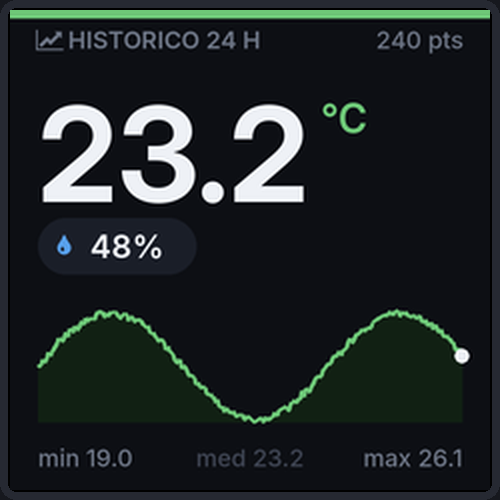
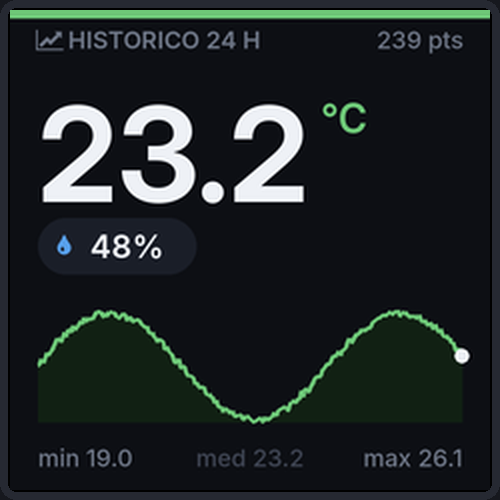
Documenta las cinco vistas y regenera las capturas
El README hablaba de tres vistas. Ahora lista las cinco con una tabla de
capturas en dos filas, explica el punto de rocio y el "s/d" de la tendencia,
y recoge los controles en una tabla con el pulsador del joystick.

`generar_capturas.py` dibuja las cinco y las monta en rejilla de tres por
fila, centrando la fila incompleta: en una sola fila salian ilegibles.

diff --git a/docs/generar_capturas.py b/docs/generar_capturas.py
@@ -24,6 +24,7 @@ import ui
 ESCALA = 2                      # el panel real es de 240x240
 MARGEN = 26
 SEPARACION = 34
+COLUMNAS = 3                    # con cinco vistas, una sola fila sale ilegible
 FONDO = (22, 24, 30)
 
 
@@ -80,24 +81,34 @@ def main() -> int:
         datos = app.Datos(datos_de_ejemplo(os.path.join(tmp, "muestra.db")))
         vistas = [
             ("ahora", app.vista_ahora(datos)),
+            ("humedad", app.vista_humedad(datos)),
+            ("tendencia", app.vista_tendencia(datos)),
             ("historico", app.vista_historico(datos, 24, "24 H")),
             ("sistema", app.vista_sistema(datos)),
         ]
 
     marcos = [con_marco(v) for _, v in vistas]
-    ancho = MARGEN * 2 + sum(m.width for m in marcos) + SEPARACION * (len(marcos) - 1)
-    alto = MARGEN * 2 + marcos[0].height
+    lado = marcos[0].width
+    filas = [marcos[i:i + COLUMNAS] for i in range(0, len(marcos), COLUMNAS)]
+    ancho = MARGEN * 2 + lado * COLUMNAS + SEPARACION * (COLUMNAS - 1)
+    alto = MARGEN * 2 + lado * len(filas) + SEPARACION * (len(filas) - 1)
     hoja = Image.new("RGB", (ancho, alto), FONDO)
-    x = MARGEN
-    for m in marcos:
-        hoja.paste(m, (x, MARGEN))
-        x += m.width + SEPARACION
+    y = MARGEN
+    for fila in filas:
+        # La ultima fila puede ir incompleta: centrarla en vez de dejar el
+        # hueco a la derecha.
+        usado = lado * len(fila) + SEPARACION * (len(fila) - 1)
+        x = (ancho - usado) // 2
+        for m in fila:
+            hoja.paste(m, (x, y))
+            x += lado + SEPARACION
+        y += lado + SEPARACION
     hoja.save(os.path.join(salida, "vistas.png"))
 
     for (nombre, _), marco in zip(vistas, marcos):
         marco.save(os.path.join(salida, f"vista-{nombre}.png"))
 
-    print(f"generadas en {salida}: vistas.png y tres capturas sueltas")
+    print(f"generadas en {salida}: vistas.png y una captura por vista")
     return 0
 
 

diff --git a/README.md b/README.md
@@ -6,7 +6,7 @@ las guarda en SQLite y las muestra en la pantalla LCD del propio Raspberry Pi.
 **Todo ocurre en la Raspberry.** No hay nube, no hay broker externo, no sale
 ni un byte a internet.
 
-![Las tres vistas del panel](docs/vistas.png)
+![Las cinco vistas del panel](docs/vistas.png)
 
 Verificado sobre hardware real: **TP359S** (`FB:E7:C4:CF:3A:F6`) + Raspberry Pi
 3 Model B + **Waveshare 1.3inch LCD HAT** (ST7789 240×240), con BlueZ 5.82,
@@ -165,17 +165,28 @@ inventárselo.
 | Joystick | arriba=6, abajo=19, izquierda=5, derecha=26, pulsar=13 |
 | Volcado de pantalla completa | ~70 ms |
 
-Tres vistas, se cambia con **KEY1** o el joystick izquierda/derecha:
+Cinco vistas, se cambia con **KEY1** o el joystick izquierda/derecha:
 
-| <img src="docs/vista-ahora.png" width="230"> | <img src="docs/vista-historico.png" width="230"> | <img src="docs/vista-sistema.png" width="230"> |
+| <img src="docs/vista-ahora.png" width="150"> | <img src="docs/vista-humedad.png" width="150"> | <img src="docs/vista-tendencia.png" width="150"> |
 | :--: | :--: | :--: |
-| **Ahora** | **Histórico** | **Sistema** |
-| Medidor circular, humedad y **antigüedad del dato** | Serie con mínima, media y máxima | IP, CPU, uptime y lecturas |
+| **Ahora** | **Humedad** | **Tendencia** |
+| Medidor circular, humedad y **antigüedad del dato** | Confort y **punto de rocío** | Cambio en 1 h y 24 h, extremos del día |
+| <img src="docs/vista-historico.png" width="150"> | <img src="docs/vista-sistema.png" width="150"> | |
+| **Histórico** | **Sistema** | |
+| Serie con mínima, media y máxima | IP, CPU, uptime y lecturas | |
 
 1. **Ahora** — si pasan más de 10 minutos sin lectura, el arco se apaga a gris
    y la antigüedad se pone en rojo: un valor congelado no debe parecer actual.
-2. **Histórico** — **KEY3** cambia el rango (3 h / 12 h / 24 h / 3 días).
-3. **Sistema** — útil para averiguar la IP cuando la Raspberry cambia de red.
+2. **Humedad** — el mismo medidor sobre 0–100 %, con el **punto de rocío**
+   (Magnus-Tetens) calculado con la temperatura de esa misma lectura. Los
+   colores son tramos de confort, no un degradado: verde entre 30 y 60 %, y
+   **rojo pasado el 70 %**, que es donde ya condensa en los puentes térmicos.
+3. **Tendencia** — cuánto ha cambiado en 1 h y en 24 h, y la mínima y la
+   máxima del día con su hora. La lectura de referencia se busca con una
+   tolerancia de ±15 min: si no hay ninguna cerca de esa hora pone `s/d` en
+   vez de restar contra el borde de un hueco e inventarse un cambio.
+4. **Histórico** — **KEY3** cambia el rango (3 h / 12 h / 24 h / 3 días).
+5. **Sistema** — útil para averiguar la IP cuando la Raspberry cambia de red.
 
 El estilo vive en `ui.py`: todo se dibuja a **3× y se reduce con LANCZOS**,
 porque PIL no suaviza bordes y sin eso los arcos salen dentados. Cuesta 116 ms
@@ -183,7 +194,16 @@ por fotograma en un Pi 3, frente a los 2 s de refresco. Los iconos son glifos
 de **Font Awesome** y la tipografía es **Inter**, ambos desde paquetes de apt:
 ni una descarga.
 
-**KEY2** apaga y enciende la retroiluminación.
+| Control | Acción |
+| --- | --- |
+| **KEY1**, joystick izquierda/derecha | vista anterior / siguiente |
+| **KEY2** | apaga y enciende la retroiluminación |
+| **KEY3** | rango del histórico |
+| **Pulsar el joystick** | vuelve a la vista **Ahora** |
+
+Las pulsaciones llegan en el hilo de `gpiozero` y **despiertan el bucle de
+dibujo** con un `threading.Event`, en vez de esperar al siguiente refresco: sin
+eso el panel tardaba hasta 2 s en reaccionar a un botón.
 
 Dos detalles del ST7789 que cuestan una tarde si no se saben:
 
